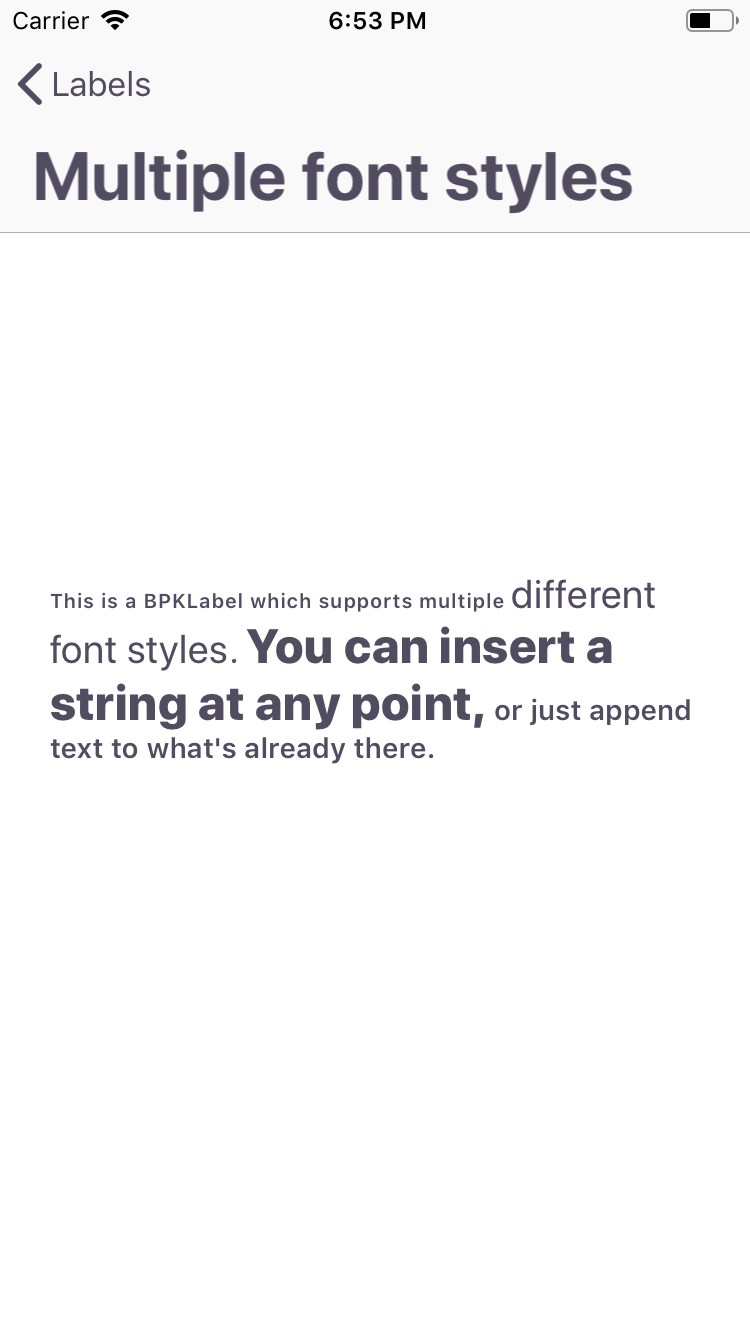
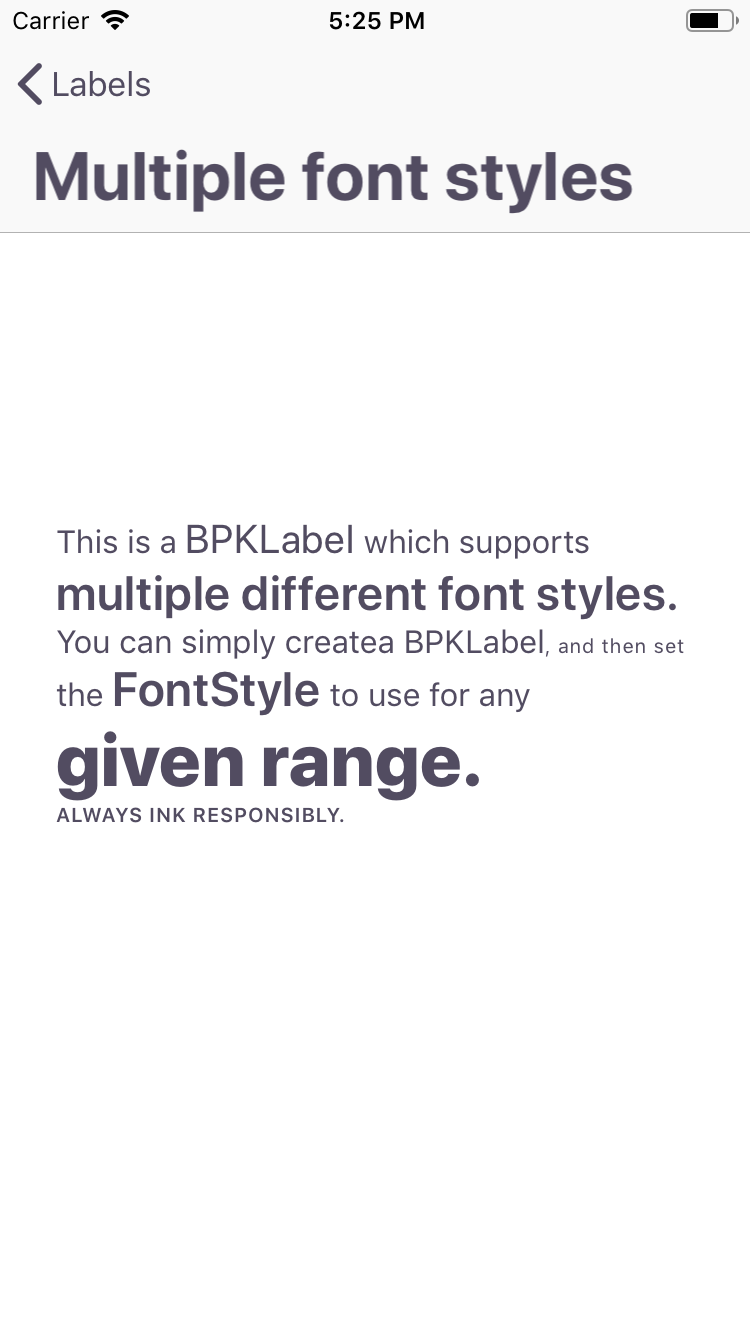
Refactor

Changed region(s): [[0.0613, 0.3688, 0.92, 0.6147], [0.46, 0.0, 0.5827, 0.0307], [0.8893, 0.461, 0.92, 0.4918]]

diff --git a/Example/Backpack/View Controllers/LabelMultiFontStyleViewController.swift b/Example/Backpack/View Controllers/LabelMultiFontStyleViewController.swift
@@ -27,11 +27,15 @@ class LabelMultiFontStyleViewController: UIViewController {
         super.viewDidLoad()
 
         label.numberOfLines = 15
-        label.fontStyle = .textCapsEmphasized
+        label.fontStyle = .textBase
 
-        label.text = "This is a BPKLabel which supports multiple "
-        label.appendText("different font styles. ", with: .textLg)
-        label.appendText("or just append text to what's already there.", with: .textSmEmphasized)
-        label.insertText("You can insert a string at any point, ", at: 66, with: .textXlHeavy)
+        label.text = "This is a BPKLabel which supports multiple different font styles. You can simply create" +
+        "a BPKLabel, and then set the FontStyle to use for any given range.\nALWAYS INK RESPONSIBLY."
+        label.setFontStyle(.textLg, range: NSRange(location: 10, length: 8))
+        label.setFontStyle(.textXlEmphasized, range: NSRange(location: 33, length: 32))
+        label.setFontStyle(.textCaps, range: NSRange(location: 97, length: 14))
+        label.setFontStyle(.textXlEmphasized, range: NSRange(location: 116, length: 9))
+        label.setFontStyle(.textXxxlHeavy, range: NSRange(location: 141, length: 12))
+        label.setFontStyle(.textCapsEmphasized, range: NSRange(location: 154, length: 23))
     }
 }

diff --git a/Backpack/Label/Classes/BPKLabel.m b/Backpack/Label/Classes/BPKLabel.m
@@ -25,7 +25,7 @@ NS_ASSUME_NONNULL_BEGIN
 @interface BPKLabel ()
 
 - (void)setupWithStyle:(BPKFontStyle)style;
-@property(strong) NSMutableArray<BPKTextDefinition *> *persistedText;
+@property(strong) NSMutableArray<BPKTextDefinition *> *persistentStyleRanges;
 
 @end
 
@@ -70,35 +70,32 @@ NS_ASSUME_NONNULL_BEGIN
         return;
     }
 
-    NSMutableAttributedString *newAttributedString = [[NSMutableAttributedString alloc]init];
+    NSMutableAttributedString *newAttributedString = [[NSMutableAttributedString alloc] initWithAttributedString:
+                                                      [BPKFont attributedStringWithFontStyle:self.fontStyle content:self.text textColor:self.textColor fontMapping:self.fontMapping]
+                                                      ];
 
     // Recreate the attributed string from the persisted definitions
-    for (BPKTextDefinition *textDefinition in self.persistedText) {
-        NSAttributedString *attributedString = [self getAttributedStringWithFontStyle:textDefinition.fontStyle text:textDefinition.text];
-        [newAttributedString appendAttributedString:attributedString];
+    for (BPKTextDefinition *styleRange in self.persistentStyleRanges) {
+        NSDictionary<NSAttributedStringKey, id> *newAttributes = [self getAttributesWithFontStyle:styleRange.fontStyle];
+        [newAttributedString setAttributes:newAttributes range:styleRange.range];
     }
 
     super.attributedText = newAttributedString;
 }
 
-- (NSAttributedString *)getAttributedStringWithFontStyle:(BPKFontStyle)fontStyle text:(NSString *)text {
+- (NSDictionary<NSAttributedStringKey, id> *)getAttributesWithFontStyle:(BPKFontStyle)fontStyle {
     if (self.textColor) {
-        return [BPKFont attributedStringWithFontStyle:fontStyle
-                                              content:text
-                                            textColor:self.textColor
-                                          fontMapping:self.fontMapping];
+        NSDictionary<NSAttributedStringKey, id> *customAttributes = @{NSForegroundColorAttributeName: self.textColor};
+        return  [BPKFont attributesForFontStyle:fontStyle withCustomAttributes:customAttributes fontMapping:self.fontMapping];
     } else {
-        return [BPKFont attributedStringWithFontStyle:fontStyle
-                                              content:text
-                                          fontMapping:self.fontMapping];
+        return  [BPKFont attributesForFontStyle:fontStyle fontMapping:self.fontMapping];
     }
 }
 
 - (void)setText:(NSString *_Nullable)text {
     BPKAssertMainThread();
 
-    [self.persistedText removeAllObjects];
-    [self.persistedText addObject:[[BPKTextDefinition alloc] initWithText:text fontStyle:self.fontStyle]];
+    [self.persistentStyleRanges removeAllObjects];
 
     [super setText:text];
     [self updateTextStyle];
@@ -109,9 +106,6 @@ NS_ASSUME_NONNULL_BEGIN
     _fontStyle = fontStyle;
 
     self.text = self.attributedText.string;
-
-    [self.persistedText removeAllObjects];
-    [self.persistedText addObject:[[BPKTextDefinition alloc] initWithText:self.text fontStyle:fontStyle]];
 }
 
 - (void)setFontMapping:(BPKFontMapping *_Nullable)fontMapping {
@@ -122,60 +116,20 @@ NS_ASSUME_NONNULL_BEGIN
     }
 }
 
-- (void)appendText:(NSString *)text withFontStyle:(BPKFontStyle)fontStyle {
-    [_persistedText addObject:[[BPKTextDefinition alloc] initWithText:text fontStyle:fontStyle]];
+- (void)setFontStyle:(BPKFontStyle)fontStyle range:(NSRange)range {
+    [_persistentStyleRanges addObject:[[BPKTextDefinition alloc] initWithFontStyle:fontStyle range:range]];
 
-    NSAttributedString *currentText = self.attributedText;
-    NSAttributedString *newText = [BPKFont attributedStringWithFontStyle:fontStyle content:text fontMapping:self.fontMapping];
-    NSMutableAttributedString *resultingString = [[NSMutableAttributedString alloc] init];
-    [resultingString appendAttributedString:currentText];
-    [resultingString appendAttributedString:newText];
+    NSMutableAttributedString *resultingString = [[NSMutableAttributedString alloc ] initWithAttributedString:self.attributedText];
+    NSDictionary<NSAttributedStringKey, id> *newAttributes = [self getAttributesWithFontStyle:fontStyle];
+    [resultingString setAttributes:newAttributes range:range];
 
     [self setAttributedText:resultingString];
-}
-
-- (void)insertText:(NSString *)text atIndex:(int)index withFontStyle:(BPKFontStyle)fontStyle {
-    [self insertTextDefinition:[[BPKTextDefinition alloc] initWithText:text fontStyle:fontStyle] atIndex:index];
-
-    NSAttributedString *currentText = self.attributedText;
-    NSAttributedString *newText = [BPKFont attributedStringWithFontStyle:fontStyle content:text fontMapping:self.fontMapping];
-    NSMutableAttributedString *resultingString = [[NSMutableAttributedString alloc] init];
-    [resultingString appendAttributedString:currentText];
-    [resultingString insertAttributedString:newText atIndex:index];
-
-    [self setAttributedText:resultingString];
-}
-
-- (void)insertTextDefinition:(BPKTextDefinition *)newTextDefinition atIndex:(int)index {
-    NSMutableArray<BPKTextDefinition *> *newPersistedText = [[NSMutableArray alloc] init];
-
-    int cumulativeLength = 0;
-    Boolean inserted = NO;
-    for (BPKTextDefinition *textDefinition in self.persistedText) {
-        if(inserted) {
-            [newPersistedText addObject:textDefinition ];
-        }else if(cumulativeLength == index) {
-            [newPersistedText addObject:newTextDefinition ];
-            inserted = YES;
-            [newPersistedText addObject:textDefinition];
-        } else if (cumulativeLength + textDefinition.text.length <= index) {
-            [newPersistedText addObject:textDefinition ];
-        } else {
-            NSArray<BPKTextDefinition *> *splitTextDefinition = [textDefinition splitAtIndex:index-cumulativeLength];
-            [newPersistedText addObject:[splitTextDefinition objectAtIndex:0] ];
-            [newPersistedText addObject:newTextDefinition ];
-            inserted = YES;
-            [newPersistedText addObject:[splitTextDefinition objectAtIndex:1] ];
-        }
-        cumulativeLength += textDefinition.text.length;
-    }
-    self.persistedText = newPersistedText;
 }
 
 #pragma mark - Private
 
 - (void)setupWithStyle:(BPKFontStyle)style {
-    self.persistedText = [[NSMutableArray alloc] init];
+    self.persistentStyleRanges = [[NSMutableArray alloc] init];
     self.fontStyle = style;
     self.textColor = BPKColor.gray700;
 }

diff --git a/Example/Tests/BPKLabelTest.m b/Example/Tests/BPKLabelTest.m
@@ -85,50 +85,36 @@ NS_ASSUME_NONNULL_BEGIN
     }
 }
 
-- (void) testAppendingText {
+- (void) testSettingFontStyleForRangeDoesntChangeText {
+    BPKFontMapping *fontMapping = [[BPKFontMapping alloc] initWithFamily:@"SnellRoundhand" regularFontFace:@"SnellRoundhand" semiboldFontFace:@"SnellRoundhand" heavyFontFace:@"SnellRoundhand"];
+
+    NSRange range1 = NSMakeRange(0, 5);
+    NSRange range2 = NSMakeRange(10, 5);
+    NSRange range3 = NSMakeRange(20, 5);
+
+    NSString *sampleText1 = @"Lorem ipsum dolor sit amet, consectetur adipiscing elit.";
+    NSString *sampleText2 = @"consectetaur cillium adipisicing pecu, sed do eiusmod tempor incididunt...";
+
     BPKLabel *label = [[BPKLabel alloc] initWithFontStyle:BPKFontStyleTextBase];
 
-    label.text = @"Original text";
-    [label appendText:@" Appended text" withFontStyle:BPKFontStyleTextLg];
-    [label appendText:@" More appended text" withFontStyle: BPKFontStyleTextSmEmphasized];
+    label.text = sampleText1;
+    [label setFontStyle:BPKFontStyleTextLg range:range1];
 
-    XCTAssertEqualObjects(label.text, @"Original text Appended text More appended text");
+    label.text = sampleText2;
+    [label setFontStyle:BPKFontStyleTextXxxlHeavy range:range2];
 
-    label.fontMapping = [[BPKFontMapping alloc] initWithFamily:@"SnellRoundhand" regularFontFace:@"SnellRoundhand" semiboldFontFace:@"SnellRoundhand" heavyFontFace:@"SnellRoundhand"];
+    label.fontMapping = fontMapping;
 
-    XCTAssertEqualObjects(label.text, @"Original text Appended text More appended text");
-}
+    [label setFontStyle:BPKFontStyleTextXxlHeavy range:range3];
 
-- (void) testInsertingTextBetweenSections {
-    BPKLabel *label = [[BPKLabel alloc] initWithFontStyle:BPKFontStyleTextBase];
+    NSDictionary<NSAttributedStringKey, id> *range1Attributes = [label.attributedText attributesAtIndex:range1.location + 1 effectiveRange:&range1];
+    NSDictionary<NSAttributedStringKey, id> *range2Attributes = [label.attributedText attributesAtIndex:range2.location + 1 effectiveRange:&range2];
+    NSDictionary<NSAttributedStringKey, id> *range3Attributes = [label.attributedText attributesAtIndex:range3.location + 1 effectiveRange:&range3];
 
-    label.text = @"Original text";
-    [label appendText:@" Appended text" withFontStyle:BPKFontStyleTextLg];
-    [label appendText:@" More appended text" withFontStyle: BPKFontStyleTextSmEmphasized];
-
-    [label insertText:@" Inserted text" atIndex:27 withFontStyle: BPKFontStyleTextSmEmphasized];
-
-    XCTAssertEqualObjects(label.text, @"Original text Appended text Inserted text More appended text");
-
-    label.fontMapping = [[BPKFontMapping alloc] initWithFamily:@"SnellRoundhand" regularFontFace:@"SnellRoundhand" semiboldFontFace:@"SnellRoundhand" heavyFontFace:@"SnellRoundhand"];
-
-    XCTAssertEqualObjects(label.text, @"Original text Appended text Inserted text More appended text");
-}
-
-- (void) testInsertingTextWithinSection {
-    BPKLabel *label = [[BPKLabel alloc] initWithFontStyle:BPKFontStyleTextBase];
-
-    label.text = @"Original text";
-    [label appendText:@" Appended text" withFontStyle:BPKFontStyleTextLg];
-    [label appendText:@" More appended text" withFontStyle: BPKFontStyleTextSmEmphasized];
-
-    [label insertText:@" More inserted text" atIndex:8 withFontStyle: BPKFontStyleTextSmEmphasized];
-
-    XCTAssertEqualObjects(label.text, @"Original More inserted text text Appended text More appended text");
-
-    label.fontMapping = [[BPKFontMapping alloc] initWithFamily:@"SnellRoundhand" regularFontFace:@"SnellRoundhand" semiboldFontFace:@"SnellRoundhand" heavyFontFace:@"SnellRoundhand"];
-
-    XCTAssertEqualObjects(label.text, @"Original More inserted text text Appended text More appended text");
+    XCTAssertEqualObjects(label.text, sampleText2);
+    XCTAssertEqualObjects(range1Attributes, [BPKFont attributesForFontStyle:BPKFontStyleTextBase fontMapping:fontMapping ]);
+    XCTAssertEqualObjects(range2Attributes, [BPKFont attributesForFontStyle:BPKFontStyleTextXxxlHeavy fontMapping:fontMapping ]);
+    XCTAssertEqualObjects(range3Attributes, [BPKFont attributesForFontStyle:BPKFontStyleTextXxlHeavy fontMapping:fontMapping ]);
 }
 
 @end

diff --git a/Backpack/Label/Classes/BPKLabel.h b/Backpack/Label/Classes/BPKLabel.h
@@ -47,21 +47,12 @@ NS_SWIFT_NAME(Label) IB_DESIGNABLE @interface BPKLabel : UILabel
 @property(nonatomic) BPKFontStyle fontStyle;
 
 /**
- * Append text to the label with a specified fontStyle.
+ * Set the font style for a given range of the label.
  *
- * @param text The text to append.
  * @param fontStyle The style of the text being appended.
+ * @param range The range to apply the font style to.
  */
-- (void)appendText:(NSString *)text withFontStyle:(BPKFontStyle)fontStyle;
-
-/**
- * Insert text into the label with a specified fontStyle.
- *
- * @param text The text to insert.
- * @param index The position at which to insert the text.
- * @param fontStyle The style of the text being appended.
- */
-- (void)insertText:(NSString *)text atIndex:(int)index withFontStyle:(BPKFontStyle)fontStyle;
+- (void)setFontStyle:(BPKFontStyle)fontStyle range:(NSRange)range;
 
 @end
 NS_ASSUME_NONNULL_END

diff --git a/Example/SnapshotTests/BPKLabelSnapshotTest.m b/Example/SnapshotTests/BPKLabelSnapshotTest.m
@@ -146,11 +146,9 @@ NS_ASSUME_NONNULL_BEGIN
     BPKLabel *label = [[BPKLabel alloc] initWithFontStyle:BPKFontStyleTextBase];
     label.numberOfLines = 5;
 
-    label.text = @"Original text";
-    [label appendText:@" Appended text" withFontStyle:BPKFontStyleTextLg];
-    [label appendText:@" More appended text" withFontStyle: BPKFontStyleTextSmEmphasized];
-
-    [label insertText:@" More inserted text" atIndex:8 withFontStyle: BPKFontStyleTextXxlEmphasized];
+    label.text = @"Lorem ipsum dolor sit amet, consectetur adipiscing elit.";
+    [label setFontStyle:BPKFontStyleTextLgEmphasized range:NSMakeRange(12, 10)];
+    [label setFontStyle:BPKFontStyleTextXxxlHeavy range:NSMakeRange(25, 10)];
 
     UIView *parentView = [[UIView alloc] initWithFrame:CGRectMake(0, 0, 1200, 120)];
     parentView.backgroundColor = BPKColor.white;

diff --git a/Backpack/Label/Classes/BPKTextDefinition.m b/Backpack/Label/Classes/BPKTextDefinition.m
@@ -21,24 +21,15 @@ NS_ASSUME_NONNULL_BEGIN
 
 @implementation BPKTextDefinition
 
-- (instancetype)initWithText:(NSString *)text fontStyle:(BPKFontStyle)fontStyle {
+- (instancetype)initWithFontStyle:(BPKFontStyle)fontStyle range:(NSRange)range {
     self = [super init];
 
     if(self) {
-        _text = text;
         _fontStyle = fontStyle;
+        _range = range;
     }
 
     return self;
-}
-
-- (NSArray<BPKTextDefinition *> *)splitAtIndex:(int) index {
-    NSMutableArray<BPKTextDefinition *> *result = [[NSMutableArray alloc] init];
-
-    [result addObject:[[BPKTextDefinition alloc] initWithText: [self.text substringToIndex:index] fontStyle:self.fontStyle]];
-    [result addObject:[[BPKTextDefinition alloc] initWithText: [self.text substringFromIndex:index] fontStyle:self.fontStyle]];
-
-    return result;
 }
 
 @end

diff --git a/Backpack/Label/Classes/BPKTextDefinition.h b/Backpack/Label/Classes/BPKTextDefinition.h
@@ -24,11 +24,9 @@ NS_ASSUME_NONNULL_BEGIN
 @interface BPKTextDefinition : NSObject
 
 @property(readonly) BPKFontStyle fontStyle;
-@property(readonly, strong) NSString *text;
+@property(readonly) NSRange range;
 
-- (instancetype)initWithText:(NSString *)text fontStyle:(BPKFontStyle)fontStyle;
-
--(NSArray<BPKTextDefinition *> *)splitAtIndex:(int) index;
+- (instancetype)initWithFontStyle:(BPKFontStyle)fontStyle range:(NSRange)range;
 
 @end
 NS_ASSUME_NONNULL_END

diff --git a/Backpack/Label/README.md b/Backpack/Label/README.md
@@ -12,11 +12,8 @@
 BPKLabel *label = [[BPKLabel alloc] initWithFontStyle:BPKFontStyleTextBase];
 // Position label with autolayout or other method
 
-// Append text:
-[label appendText:@"Some text" withFontStyle:BPKFontStyleTextLg];
-
-// Insert text:
-[label insertText:@"Some text" atIndex:20 withFontStyle:BPKFontStyleTextLg];
+// Set font style for a specific range
+[label setFontStyle:BPKFontStyleTextLg range:NSMakeRange(12, 10)];
 
 ```
 
@@ -28,11 +25,8 @@ import Backpack
 let label = Backpack.Label(fontStyle: .base)
 // Position label with autolayout or other method
 
-// Append text:
-label.appendText("Some text", with: .textLg);
-
-// Insert text:
-label.insertText("Some text", at:20, with: .textLg);
+// Set font style for a specific range
+label.setFontStyle(.textLg, range: NSRange(location: 12, length: 10))
 
 ```
 

diff --git a/UNRELEASED.md b/UNRELEASED.md
@@ -3,7 +3,7 @@
 **Added:**
 
 - Backpack/Label:
-  - New methods for appending text and inserting text, both of which support adding text with different `fontStyle`s to the base label `fontStyle`.
+  - New method for setting the label font style for a specified range.
 
 > Place your changes below this line.
 
